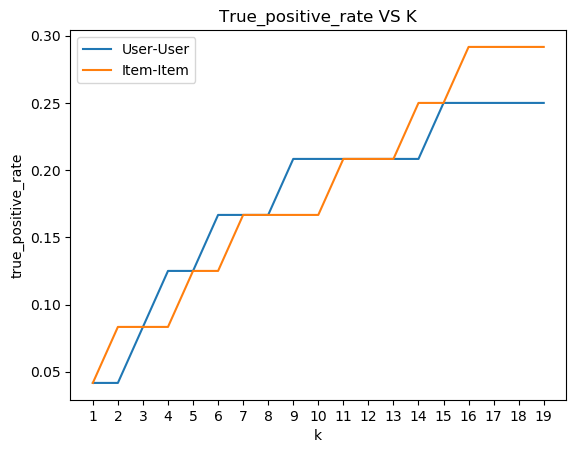
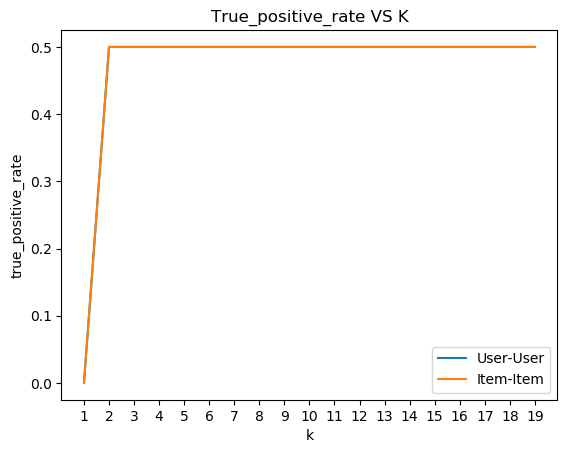
Sparse Dataset support

diff --git a/execute_collaborative_filtering.py b/execute_collaborative_filtering.py
@@ -6,14 +6,13 @@ import argparse
 """ For running the functions in collaborative filtering module and also 
     displaying some of the results for collaborative filtering """
 
-# TODO : User inputs, scaling 5 rating
 
-
-def read_file(file_name, delim=',', cols=None, header='infer'):
-    if cols is None:
-        return pd.read_csv(file_name, sep=delim, header=header)
+def read_file(file_name, delim=',', header='infer', sparse=False):
+    if sparse:
+        df = pd.read_csv(file_name, sep=delim, header=header)
+        return df.pivot(index=df.columns[0], columns=df.columns[1], values=df.columns[2]).fillna(0.0)
     else:
-        return pd.read_csv(file_name, sep=delim, usecols=cols, header=header)
+        return pd.read_csv(file_name, sep=delim, header=header)
 
 
 parser = argparse.ArgumentParser(description='Collaborative_Filtering')
@@ -21,15 +20,38 @@ parser.add_argument('ratings_file',
                     help='Ratings file name/ path(File should be without col names)')
 parser.add_argument('-s', '--shows_names_file',
                     help='File having mapping shows\' id and shows\' name')
+parser.add_argument('-d', '--delimiter', default=',',
+                    help='Separator in the file(default value comma. Enter s in case of space/ tab)')
+parser.add_argument('-hh', '--has_header', default='infer',
+                    help='Whether File has header(column names); Default yes, Enter y/n for yes/ no')
 parser.add_argument('-u', '--User_id', type=int, default=1,
                     help='User Id for which you need recommendation (Default 1st User)')
 parser.add_argument('-k', '--k_in_top_k', type=int, default=5,
                     help='No. of recommendations (Default 5); top k recommendations')
+parser.add_argument('-sp', '--sparse', default='n',
+                    help='Dataset is sparse or not (Default no), enter y for yes, n for no'
+                         ' (In Sparse Dataset, 1st column would come as indices, 2nd would'
+                         ' come as cols, 3rd as values)')
 args = parser.parse_args()
 
-user_shows = read_file(args.ratings_file, delim=r'\s+', header=None)
+if args.has_header in {'n', 'N', 'No'}:
+    header = None
+else:
+    header = 'infer'
+
+if args.sparse in {'y', 'Y', 'Yes'}:
+    data_sparse = True
+else:
+    data_sparse = False
+
+if args.delimiter == 's':
+    user_shows = read_file(args.ratings_file, delim=r'\s+', header=header, sparse=data_sparse)
+else:
+    user_shows = read_file(args.ratings_file, delim=args.delimiter, header=header, sparse=data_sparse)
+
 if args.shows_names_file is not None:
     shows = read_file(args.shows_names_file, header=None)
+
 k = [1, 20]  # enter here the k range for which true_positive_rate vs k have to be plotted
 user_idx = args.User_id  # User no. for which recommendations have to be found out (user ids start from 0)
 
@@ -81,30 +103,37 @@ user_user = []
 for show_idx, sim_score in user_user_top10_shows_scores:
     user_user.append(show_idx)
 
-# MyMedialite Library Results for top 10 shows; found out separately by running the library in cmd
-itemknn = [234, 48, 37, 543, 490, 477, 280, 553, 489, 222]
-wrmf = [48,	77,	192, 208, 195,	280, 207, 222, 219,	489]
-
-compare_ii_uu_itemknn_wrfm = [[item_item[i], user_user[i], itemknn[i], wrmf[i]] for i in range(10)]
-
-print("\n*** Recommendation with various methods for user {0} with original dataset: ***".format(user_idx))
-print("{0:^10s}{1:^10s}{2:^10s}{3:^10s}".format('Item-Item', 'User-User', 'ItemKNN', 'WRMF'))
-for i in compare_ii_uu_itemknn_wrfm:
+compare_ii_uu = [[item_item[i], user_user[i]] for i in range(10)]
+print("\n*** Recommendation with Item-Item & User-User for user {0} with original dataset: ***".format(user_idx))
+print("{0:^10s}{1:^10s}".format('Item-Item', 'User-User'))
+for i in compare_ii_uu:
     for j in i:
         print("{0:^10d}".format(j), end='')
     print()
+# # MyMedialite Library Results for top 10 shows; found out separately by running the library in cmd
+# itemknn = [234, 48, 37, 543, 490, 477, 280, 553, 489, 222]
+# wrmf = [48,	77,	192, 208, 195,	280, 207, 222, 219,	489]
 
-print()
-all_recommend_show_ids = {*item_item, *user_user, *itemknn, *wrmf}
-print("{0:^10s}{1:^s}".format('ShowID', 'ShowName'))
-for i in sorted(all_recommend_show_ids):
-    try:
-        print("{0:^10d} - {1}".format(i, shows.loc[i][0]))
-    except NameError:
-        print("{0:^10d} - {1}".format(i, 'N/A'))
+# compare_ii_uu_itemknn_wrfm = [[item_item[i], user_user[i], itemknn[i], wrmf[i]] for i in range(10)]
 
-
-cf.kendall_rank_correlation(item_item, user_user, itemknn, wrmf)
+# print("\n*** Recommendation with various methods for user {0} with original dataset: ***".format(user_idx))
+# print("{0:^10s}{1:^10s}{2:^10s}{3:^10s}".format('Item-Item', 'User-User', 'ItemKNN', 'WRMF'))
+# for i in compare_ii_uu_itemknn_wrfm:
+#     for j in i:
+#         print("{0:^10d}".format(j), end='')
+#     print()
+#
+# print()
+# all_recommend_show_ids = {*item_item, *user_user, *itemknn, *wrmf}
+# print("{0:^10s}{1:^s}".format('ShowID', 'ShowName'))
+# for i in sorted(all_recommend_show_ids):
+#     try:
+#         print("{0:^10d} - {1}".format(i, shows.loc[i][0]))
+#     except NameError:
+#         print("{0:^10d} - {1}".format(i, 'N/A'))
+#
+#
+# cf.kendall_rank_correlation(item_item, user_user, itemknn, wrmf)
 
 
 

diff --git a/collaborative_filtering.py b/collaborative_filtering.py
@@ -65,7 +65,7 @@ def find_true_positive_rate_vs_k(recommend_matrix, user_shows, user_idx, k):
         shows_sim_scores = find_top_k_shows(user_idx, i, recommend_matrix, 100)
         recommended_shows = [s[0] for s in shows_sim_scores]
         recommended_shows = np.array(recommended_shows)
-        no_rec_shows_watched = np.count_nonzero(user_shows.loc[19][recommended_shows].values)
+        no_rec_shows_watched = np.count_nonzero(user_shows.loc[user_idx][recommended_shows].values)
         true_positive_rate_vs_k.append([i, (no_rec_shows_watched / no_first_100_shows_watched)])
 
     return np.array(true_positive_rate_vs_k)
